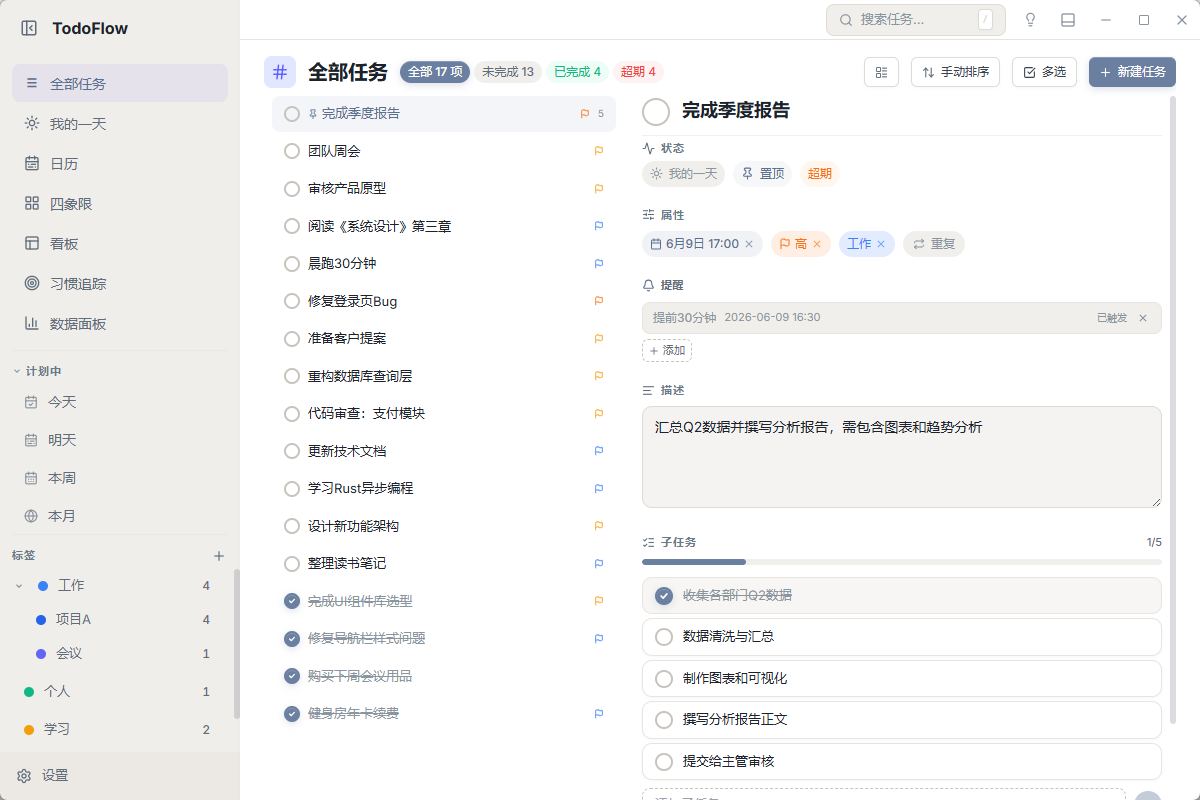
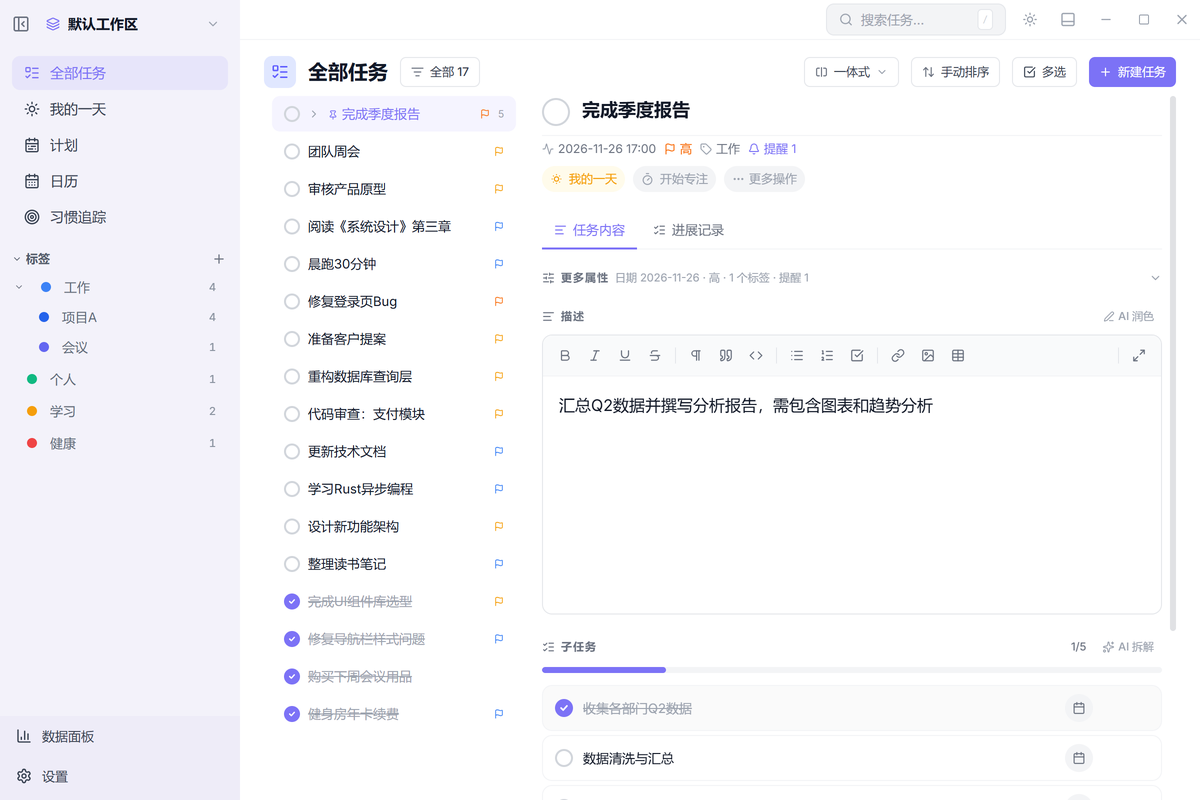
docs: 侧边栏重构后的使用说明与截图
README 与 WIKI:五种视图、“计划”、侧边栏入口、四象限与看板的进入方式;删掉代码里并不存在的三个
数字键快捷键;路线图记下两个已知小问题(浅色主题选中项的对比度、看板拖拽时浮起卡片的样式)。
docs/images:用演示数据库重拍主窗口的 18 张截图(1200×800)。
CLAUDE.md:侧边栏与任务视图一节(地址只表达范围、视图是全局状态、旧路由、详情面板的打开条件),
以及隔离实例做真机验收和重拍截图的方法。

diff --git a/CLAUDE.md b/CLAUDE.md
@@ -115,7 +115,8 @@ src/
 ├── components/
 │   ├── layout/       Sidebar, Header, TaskDetailPanel
 │   ├── tasks/        TaskCard, TaskList, TaskDetail(双页签:任务内容/进展记录),
-│   │                 TaskQuickAdd, UnifiedLayout,
+│   │                 TaskQuickAdd, UnifiedLayout, TaskViewBody(五种视图 → 组件的映射),
+│   │                 KanbanBoard, MatrixBoard(接收当前范围任务的看板 / 四象限),
 │   │                 SubtaskDescription(子任务描述预览/编辑,列表+详情共用),
 │   │                 progress/ProgressTab(进展输入+分页时间线+状态事件)
 │   ├── ai/           AiModelSettings(设置页区块), BreakdownPanel(拆解), PolishPanel(润色), useElapsedSeconds(生成计时)
@@ -125,17 +126,17 @@ src/
 │   ├── shared/       CommandPalette, SearchBar, DatePicker, KeyCapture, ShortcutEditor,
 │   │                 ErrorBoundary, PomodoroFullscreen, Portal, ...
 │   └── attachments/  AttachmentZone, ImageLightbox
-├── pages/            TodayPage, CalendarPage, TagPage, SearchPage, DashboardPage,
+├── pages/            CalendarPage, TagPage, SearchPage, DashboardPage,
 │                     SettingsPage, WidgetPage, PomodoroWidgetPage, NotePage(桌面便签窗口),
 │                     ReviewPage(/review 日周回顾:事实/材料/文稿+AI 生成),
-│                     FocusStatsPage, ...
+│                     FocusStatsPage, DateFilterPage(/date/:filter:全部任务 + 计划的四个日期范围), ...
 ├── hooks/            useTasks, useTags, useTheme, useKeyboardShortcuts, usePomodoroSync,
 │                     useTaskNotes(便签固定/取消固定), useAiModels(AI 配置/验证/摘要),
 │                     useWorkspaces(工作区列表与操作)
 ├── domain/           跨平台契约层:models/(含 ai.ts, workspace.ts), repositories/(含 AiModelRepository),
 │                     adapters/(desktop 接 invoke,memory 为测试替身)——业务组件不直接碰 Tauri
-├── stores/           uiStore, shortcutStore, pomodoroStore, calendarStore, polishStore/breakdownStore(AI 会话,跨详情页存活)
-├── lib/              db.ts (Tauri invoke wrappers), date.ts, cn.ts, priority.ts,
+├── stores/           uiStore(taskViewMode 全局视图状态、lastPlannedRange), shortcutStore, pomodoroStore, calendarStore, polishStore/breakdownStore(AI 会话,跨详情页存活)
+├── lib/              db.ts (Tauri invoke wrappers), date.ts, cn.ts, priority.ts, dateRanges.ts(计划的日期范围), taskView.ts(视图容器的高度语义),
 │                     noteCountdown.ts(便签倒计时), ...
 ├── sync-client/      conflicts.ts, engine.ts (本地优先跨端同步客户端,对接外部 sync-server)
 ├── types/            task.ts, tag.ts, attachment.ts, shortcuts.ts, pomodoro.ts, note.ts
@@ -299,13 +300,28 @@ pomodoroStore (Zustand + localStorage persistence)
 - **删除**：先把库文件改名做占用探测（Windows 下被别的进程打开时改名失败 → 什么都不改并提示），成功后才清凭证、删条目和文件。删除**当前**工作区时库正被本进程占用 → 只登记（`pending_delete`）+ 换激活项 + 重启，由新进程在启动时完成；那时仍被占用（例如跟随激活项的 MCP 服务还没放开）最多重试 5×600ms，再不行就保留条目并提示
 - **主窗口状态**（`window_state.rs`）：`tauri.conf.json` 的主窗口 `visible:false`，setup 里先按 `window-state.json` 恢复位置再 `show()`；常驻线程每秒落盘 + 退出时落盘——为此用 `builder.build()` + `app.run()`（不是 `Builder::run`）才能收到 `RunEvent::Exit`
 - **从备份找回**（`db/recovery_repo.rs`）：取代了旧的整库 `import_database`（连同 `restore_progress_data` 一起移除）。先预览 → 勾选 → **单事务**执行；默认只找回当前库中没有的任务，任务整行以备份为准（带 `source` 标记）；带回所选任务的子任务及依赖的标签、提醒、便签、附件记录、进展记录。**进展记录**：本机仍有效的不动，随任务删除被清空正文的按备份恢复；**状态事件**只增不改（自增主键跨库撞号 → 保留本机）。习惯、设置、模型配置、同步状态不带；“同时恢复日／周回顾”是显式选项（同范围不同文稿、同 ID 不同内容都拒绝整次找回）；导入缺口每天只记一条
-- **前端**：`components/workspace/`（WorkspaceSwitcher、WorkspaceManagerDialog、RecoverFromBackupDialog）与 `hooks/useWorkspaces`；方法挂在 `SettingsRepository`（与备份、导出并列）；切换器只在 `platform.kind === 'desktop'` 显示，折叠时用小字换行显示名称；文案走 i18n（`workspace.*`、`recover.*`）
+- **前端**：`components/workspace/`（WorkspaceSwitcher、WorkspaceManagerDialog、RecoverFromBackupDialog）与 `hooks/useWorkspaces`；方法挂在 `SettingsRepository`（与备份、导出并列）；切换器只在 `platform.kind === 'desktop'` 显示，折叠时用小字换行显示名称；展开时内嵌在侧边栏顶行（取代独立的品牌行），清单未返回或当前环境不提供工作区时该位置显示应用名；文案走 i18n（`workspace.*`、`recover.*`）
 - **浮层必须遵守 Portal 约定**（见下文 Portal Dropdown Positioning）：切换菜单是 Portal + `fixed` + `z-[200]`，两个对话框 `z-[300]`。⚠ 2026-11-24 真机实测：把菜单写成侧边栏内部的 `absolute` 定位，在玻璃主题下会被后面的导航项盖住、点击落到导航上。表面样式见 `popupSurface.ts`——玻璃主题会把 `bg-white` / `dark:bg-[#1E1E32]` 改写成很淡的半透明，所以菜单用接近不透明的 `menuSurface`（下面没有变暗背景），对话框用 `dialogSurface`（`glass-panel-strong`，和搜索下拉一致）
 - **启动提示不带错误前缀**：直接展示给用户的说明用 `AppError::user_message()`（去掉 "Validation error: " 等英文前缀）；`Display` 保留前缀供日志和前端判别
 - **管理界面的任务数只算顶层任务**（`workspace::store::task_count`）：要和“全部任务”页面标题上的数字一致，页面默认折叠子任务，把子任务算进去会显示 176 对 124 这样的不一致
 - **切换耗时实测**（独立调试构建，2026-11-24）：从点击到新窗口出现 3–7 秒，进入数据多的工作区更慢；经界面连续切换 10 次全部成功，窗口位置不变
 - **真机验收**：需要界面操作的验收受限于两点——这台机器的屏幕会很快自动锁定（实测 1–10 分钟不等；锁屏时截图和点击都不可用），WebView2 的 a11y 树内容陈旧不可靠。可靠的做法：给 exe 设 `WEBVIEW2_ADDITIONAL_BROWSER_ARGUMENTS=--remote-debugging-port=9222` 后启动，用调试口**只读**地取元素位置和文字（`src-tauri/target/acceptance-tools/cdp.mjs at|find` 直接给出截图坐标），再按坐标点击；不需要界面的部分（重启交接、窗口位置、回退、重启后完成删除、MCP）可以纯进程级验证（`headless.py`）。排查“本地存储里的值丢了”：直接看 `%LOCALAPPDATA%\com.todoflow.desktop\EBWebView\Default\Local Storage\leveldb\*.log`，记录是明文的，能分清“没写盘”和“被删了”。主窗口的 a11y 树这次实测可用：按钮和菜单项按 `AXPress` 触发比坐标点击稳（“更多操作”按钮坐标点了两下都没展开，可访问性一按就开）；但按名字找元素要避开同名的——标题栏的“关闭”会把主窗口收进气泡，而面板右上角的关闭键离它很近，关面板改点列表的空白处。坐标点击默认同时走鼠标和可访问性两条路，可能产生真人做不出的操作组合，验证“用户会不会遇到”时用纯鼠标（`strategy: 'event'`）
 - **附件缺失**：`get_attachment_file_path` 在文件不在磁盘上时返回 null（从 `.db` 添加的工作区只有记录、没有文件），AttachmentZone 显示“文件缺失”占位，仍可删除该记录
+
+## 侧边栏与任务视图（Navigation & Task Views）
+
+侧边栏信息架构与“范围 × 视图”的分离。规格见主 spec `openspec/specs/sidebar-navigation`、`planned-view`、`task-view-switching`；变更已归档到 `openspec/changes/archive/2026-11-26-streamline-sidebar-navigation`，主 spec 已同步（`task-status-filtering` 改了两条需求）。实施与验收记录在该目录的 `tasks.md`，取舍见 `design.md`。
+
+- **侧边栏只有三组**：顶行（折叠按钮 + 工作区切换器）、目的地（全部任务、我的一天、计划、日历、习惯追踪，顺序固定）、标签分组（可折叠）、底部组（数据面板、设置）。单个日期范围和任务视图 MUST NOT 再加回侧边栏。固定部分高度不超过 380px。分组标题用 `.sidebar-section-label`（12px、无 `uppercase`），目的地 / 标签 / 分组标题三组文字在六套主题下对比度都不低于 4.5:1——新引入的色值类要在 `index.css` 的 warm、lumina 覆盖表里补行
+- **地址只表达范围，视图是一份全局状态**：`/date/all`（全部任务）、`/date/<today|tomorrow|this-week|this-month>`（计划）、`/myday`、`/tag/:id`。视图是 `uiStore.taskViewMode`（`list | wall | unified | kanban | matrix`，持久化），换范围时保持。页面经 `TaskViewBody` 渲染当前视图；`lib/taskView.ts` 的 `taskViewBodyClass` 给容器高度语义——一体式 / 看板 / 四象限占满剩余高度并在内部滚动，列表 / 便签墙随页面滚动
+- **看板、四象限只放根任务卡片**：`TaskViewBody` 去掉任务的 `children` 再传给它们（`TaskCard` 会读 `task.children`）。四象限只放未完成且未放弃的任务；状态筛选对五种视图都生效
+- **`setTaskViewMode` 的副作用收在 store 里**：离开一体式时清除 `selectedTaskId`（一体式不开侧边详情）；切到看板 / 四象限时退出多选。页面里不要再各写一遍
+- **计划范围在页面内切换**：`DateFilterPage` 标题「计划」+ 范围分段控件；侧边栏「计划」指向 `uiStore.lastPlannedRange`（会话内，默认 `this-week`）。`Sidebar` 不能 import 懒加载的页面模块，范围的公共定义在 `lib/dateRanges.ts`
+- **旧路由**：`/` → `/myday`；`/kanban`、`/matrix` → `/date/all` 并启用对应视图（`App.tsx` 的 `LegacyViewRedirect`）。主区域路由是 `MainRoutes`，可以脱离整个应用单独测试
+- **详情面板只对当前清单里的任务保持打开**：`useDesktopTaskStatusFilter` 会清掉不在可见集合里的选中任务。所以“从别处带着一个任务跳进来”要落到包含它的清单——`ReviewPage` 的“打开任务”显式导航到 `/date/all` 并带上 `statusFilter: 'all'`（和数据看板的数字卡片同一写法），不能靠 `/` 的重定向落到“我的一天”
+- **界面验收**：`src-tauri/target/acceptance-tools/ui_harness.mjs`（git 忽略）在无头 Edge（与 WebView2 同内核）里加载构建产物并注入假的 Tauri 接口，切主题、量尺寸、截图、点击，不碰真实数据。先 `npx vite preview --port 4173 --strictPort --host 127.0.0.1`，再 `node ui_harness.mjs`；端口由浏览器自选、结束时按配置目录清理进程树（固定端口会被没退干净的实例占着，连到旧实例上拿到的是上次的状态）
+- **在真实的 WebView2 里验收、又不动用户正在用的安装版**：两者冲突的是代码里写死的单实例互斥量（`lib.rs` 的 `MUTEX_NAME`，不随应用标识变化）。做法是临时给互斥量名加后缀，`npx tauri dev --no-watch --config '{"identifier":"com.todoflow.desktop.verify"}'` 起一个隔离实例（自己的数据目录、WebView 配置目录），起来后立刻 `git checkout` 还原源码，再用 `CDP_PORT=9222 node ui_harness.mjs` 连上去；示例数据用 `ui_seed.py` 经命令行工具写进它自己的库。用完关掉实例并删除 `com.todoflow.desktop.verify` 的两个数据目录。⚠ 真实窗口不在前台时动画帧会被节流：量颜色要等过渡走完，带退场动画的面板没走完会吃掉后面的点击
+- **重拍文档截图**（`docs/images/`，1200×800）：演示数据在仓库里，`scripts/db-backups/demo-db-20260610-235412.db`（`scripts/seed-demo-data.mjs` 生成，22 个任务；它的“今天”是 2026-06-09，直接用会全部显示成逾期）。`ui_demo_copy.py <演示库> <验收实例数据目录>/todo.db 2026-06-09` 把它复制过去并把日期整体平移到当天（只改副本），起隔离实例后 `CDP_PORT=9222 node ui_harness.mjs shots` 按 2 倍缩放拍，再 `ui_shots_post.py <输出目录>` 缩到 1200×800。`scripts/db-backups/` 里的 `user-db-*.db` 和演示库逐字节相同；`D:\Claude\Todo-Flow Res\todoflow-backup-2026-06-08.db` 是真实数据，不要拿来做截图。快速新建里日期要写在句子开头才会被识别（`明天9点 写周报 #工作 每天`），优先级用结尾的 `!`
 
 ## AI 模型接入（AI Model Access）
 
@@ -500,4 +516,4 @@ Description is included in the debounced auto-save (800ms). Two places must incl
 
 ## PageTitle Component
 
-`src/components/shared/PageTitle.tsx` — the header bar with title, filter chips, sort, view mode toggle, expand/collapse subtasks, multi-select, and new-task button. Key props: `filterMode`, `onFilterChange`, `sortMode`, `onSortChange`, `taskViewMode`, `onToggleViewMode`. Uses `globalSubtasksExpanded` from `uiStore` to toggle all subtasks across the current view.
+`src/components/shared/PageTitle.tsx` — the header bar with title, filter chips, sort, view menu, expand/collapse subtasks, multi-select, and new-task button. Key props: `filterMode`, `onFilterChange`, `sortMode`, `onSortChange`, `taskViewMode`, `onViewChange(mode)`. 排序和视图两个下拉共用文件内的 `HeaderDropdown`（Portal + `fixed`，按项目浮层约定）。右侧操作成一组（`ml-auto flex-wrap justify-end`）：窗口放不下时整组换到下一行并靠右。看板与四象限视图下不渲染「展开子任务」和「多选」。

diff --git a/docs/WIKI.md b/docs/WIKI.md
@@ -49,15 +49,23 @@
 | `Ctrl+K` | 打开命令面板 |
 | `Ctrl+B` | 折叠 / 展开侧边栏 |
 | `N` | 快速新建任务 |
-| `1` | 全部任务 |
-| `2` | 日历 |
-| `3` | 设置 |
 | `Esc` | 关闭详情面板 / 弹窗 |
 | `?` | 命令面板 |
 
 ---
 
 ## 核心功能
+
+### 🧭 侧边栏
+
+侧边栏只放固定且少量的入口，其余空间留给自己的标签：
+
+- 顶行：折叠侧边栏，以及当前工作区的名称（点开可切换或管理）
+- 目的地：全部任务、我的一天、计划、日历、习惯追踪
+- 标签：自己建立的标签，显示未完成数，点标题可以整组收起
+- 底部：数据面板、设置
+
+看板和四象限不是侧边栏入口，是页头的视图（见下文「五种任务视图」）。`Ctrl+B` 可以把侧边栏折叠成图标栏。
 
 ### 📋 任务管理
 
@@ -90,9 +98,9 @@
 - 拖拽排序子任务顺序
 - 详情面板内嵌卡片样式，视觉清晰
 
-### 👁 三大任务视图
+### 👁 五种任务视图
 
-一键切换三种视图模式，适应不同工作场景：
+在页头的视图菜单里切换。视图作用于当前所在的清单（全部任务、我的一天、计划或某个标签），选过之后换到别的清单也保持。前三种适合日常处理，看板和四象限见下文：
 
 **📋 列表视图** — 传统清晰的线性展示，适合批量处理和精确管理
 
@@ -123,7 +131,15 @@
 - **多级嵌套**：支持父子标签层级（如「工作 → 项目A」）
 - **颜色标记**：每个标签可自定义颜色
 - **右键操作**：重命名 / 删除
-- **侧边栏显示**：标签列表显示未完成任务计数
+- **侧边栏显示**：标签列表显示未完成任务计数，点「标签」标题可以收起或展开
+
+### 📅 计划
+
+按截止日期看接下来要做的事。侧边栏只有一个「计划」入口，范围在页面里切换：
+
+- 四个范围：今天、明天、未来 7 天、未来 30 天
+- 本次使用期间会记住上次看过的范围，再点「计划」直接回到那里
+- 按截止日期看“今天”也在这里；自己挑出来的今日清单请用「我的一天」
 
 ### ☀ 我的一天
 
@@ -144,11 +160,13 @@
 - **紧急不重要** → 委派他人
 - **不重要不紧急** → 删除或推迟
 
+入口是页头视图菜单里的「四象限」。象限只放未完成的任务，可以作用于全部任务、我的一天、计划或某个标签；把卡片拖到另一个象限会修改它的优先级和截止日期。
+
 ![四象限矩阵](https://cdn.jsdelivr.net/gh/CorN0r/todo-flow@master/docs/images/07-matrix.png)
 
 ### 📊 看板视图
 
-按标签 / 优先级 / 完成状态分列展示任务，一目了然：
+按标签 / 优先级 / 完成状态分列展示任务，一目了然。入口是页头视图菜单里的「看板」（命令面板里也有“看板视图”），把卡片拖到另一列即修改对应的属性：
 
 ![看板视图](https://cdn.jsdelivr.net/gh/CorN0r/todo-flow@master/docs/images/08-kanban.png)
 
@@ -375,6 +393,11 @@ npm test
 - [ ] AI 能力持续增强 —— 我的一天智能规划、按功能路由模型、Android 端 AI
 - [x] API / Webhook 集成 —— 已通过 MCP / CLI 实现（v0.7.0）
 - [x] AI 智能助手 —— 自带 Key 模型接入 + 任务拆解 + 描述润色（开发线完成，随 v0.8.0 发布）
+
+已知的小问题，待修：
+
+- [ ] 浅色主题下选中项的文字对比度 —— 侧边栏选中的入口用的是主色配浅色底，对比度只有 3.38:1（浮光主题 4.4:1），低于 4.5:1；要给浅色主题的选中态单独定色
+- [ ] 看板拖拽时浮起的卡片 —— 拖动时浮起的卡片是任务列表的卡片样式，放下后却是看板的紧凑卡片；统一成看板卡片
 
 ---
 

diff --git a/README.md b/README.md
@@ -31,12 +31,13 @@
 | **跨端同步** | 本地优先同步架构，支持任务、标签与提醒在桌面和 Android 之间同步 |
 | **富文本描述** | WYSIWYG 编辑器，支持 Markdown 快捷输入、图片粘贴/拖放、表格、链接、全屏编辑 |
 | 子任务 | 支持两级嵌套，拖拽排序，详情面板内嵌卡片样式，可写独立执行说明 |
-| 三种视图 | 列表视图、便签墙视图、一体式左右分栏视图，一键切换 |
+| 五种视图 | 列表、便签墙、一体式左右分栏、看板、四象限，页头一键切换；视图作用于当前所在的清单 |
 | 日历视图 | 月 / 周 / 日三种视图 |
 | 标签系统 | 多级标签嵌套 + 任务多标签，颜色标记，右键重命名 / 删除 |
 | 我的一天 | 聚焦今日重点任务，智能推荐（支持暂不 / 重新推荐） |
-| 四象限 | Eisenhower Matrix 优先级矩阵 |
-| 看板 | 按标签/优先级/完成状态分列的看板视图 |
+| 计划 | 按截止日期看今天、明天、未来 7 天、未来 30 天的任务，页内切换 |
+| 看板 | 页头视图：按标签 / 优先级 / 完成状态分列，拖拽卡片修改属性 |
+| 四象限 | 页头视图：Eisenhower Matrix 优先级矩阵 |
 | 习惯追踪 | 每日打卡，可视化进度 |
 | 数据看板 | 任务统计概览 + 专注统计分页（今日/本周/连续打卡） |
 | 全局搜索 | 搜索所有任务 + 高级搜索页 |
